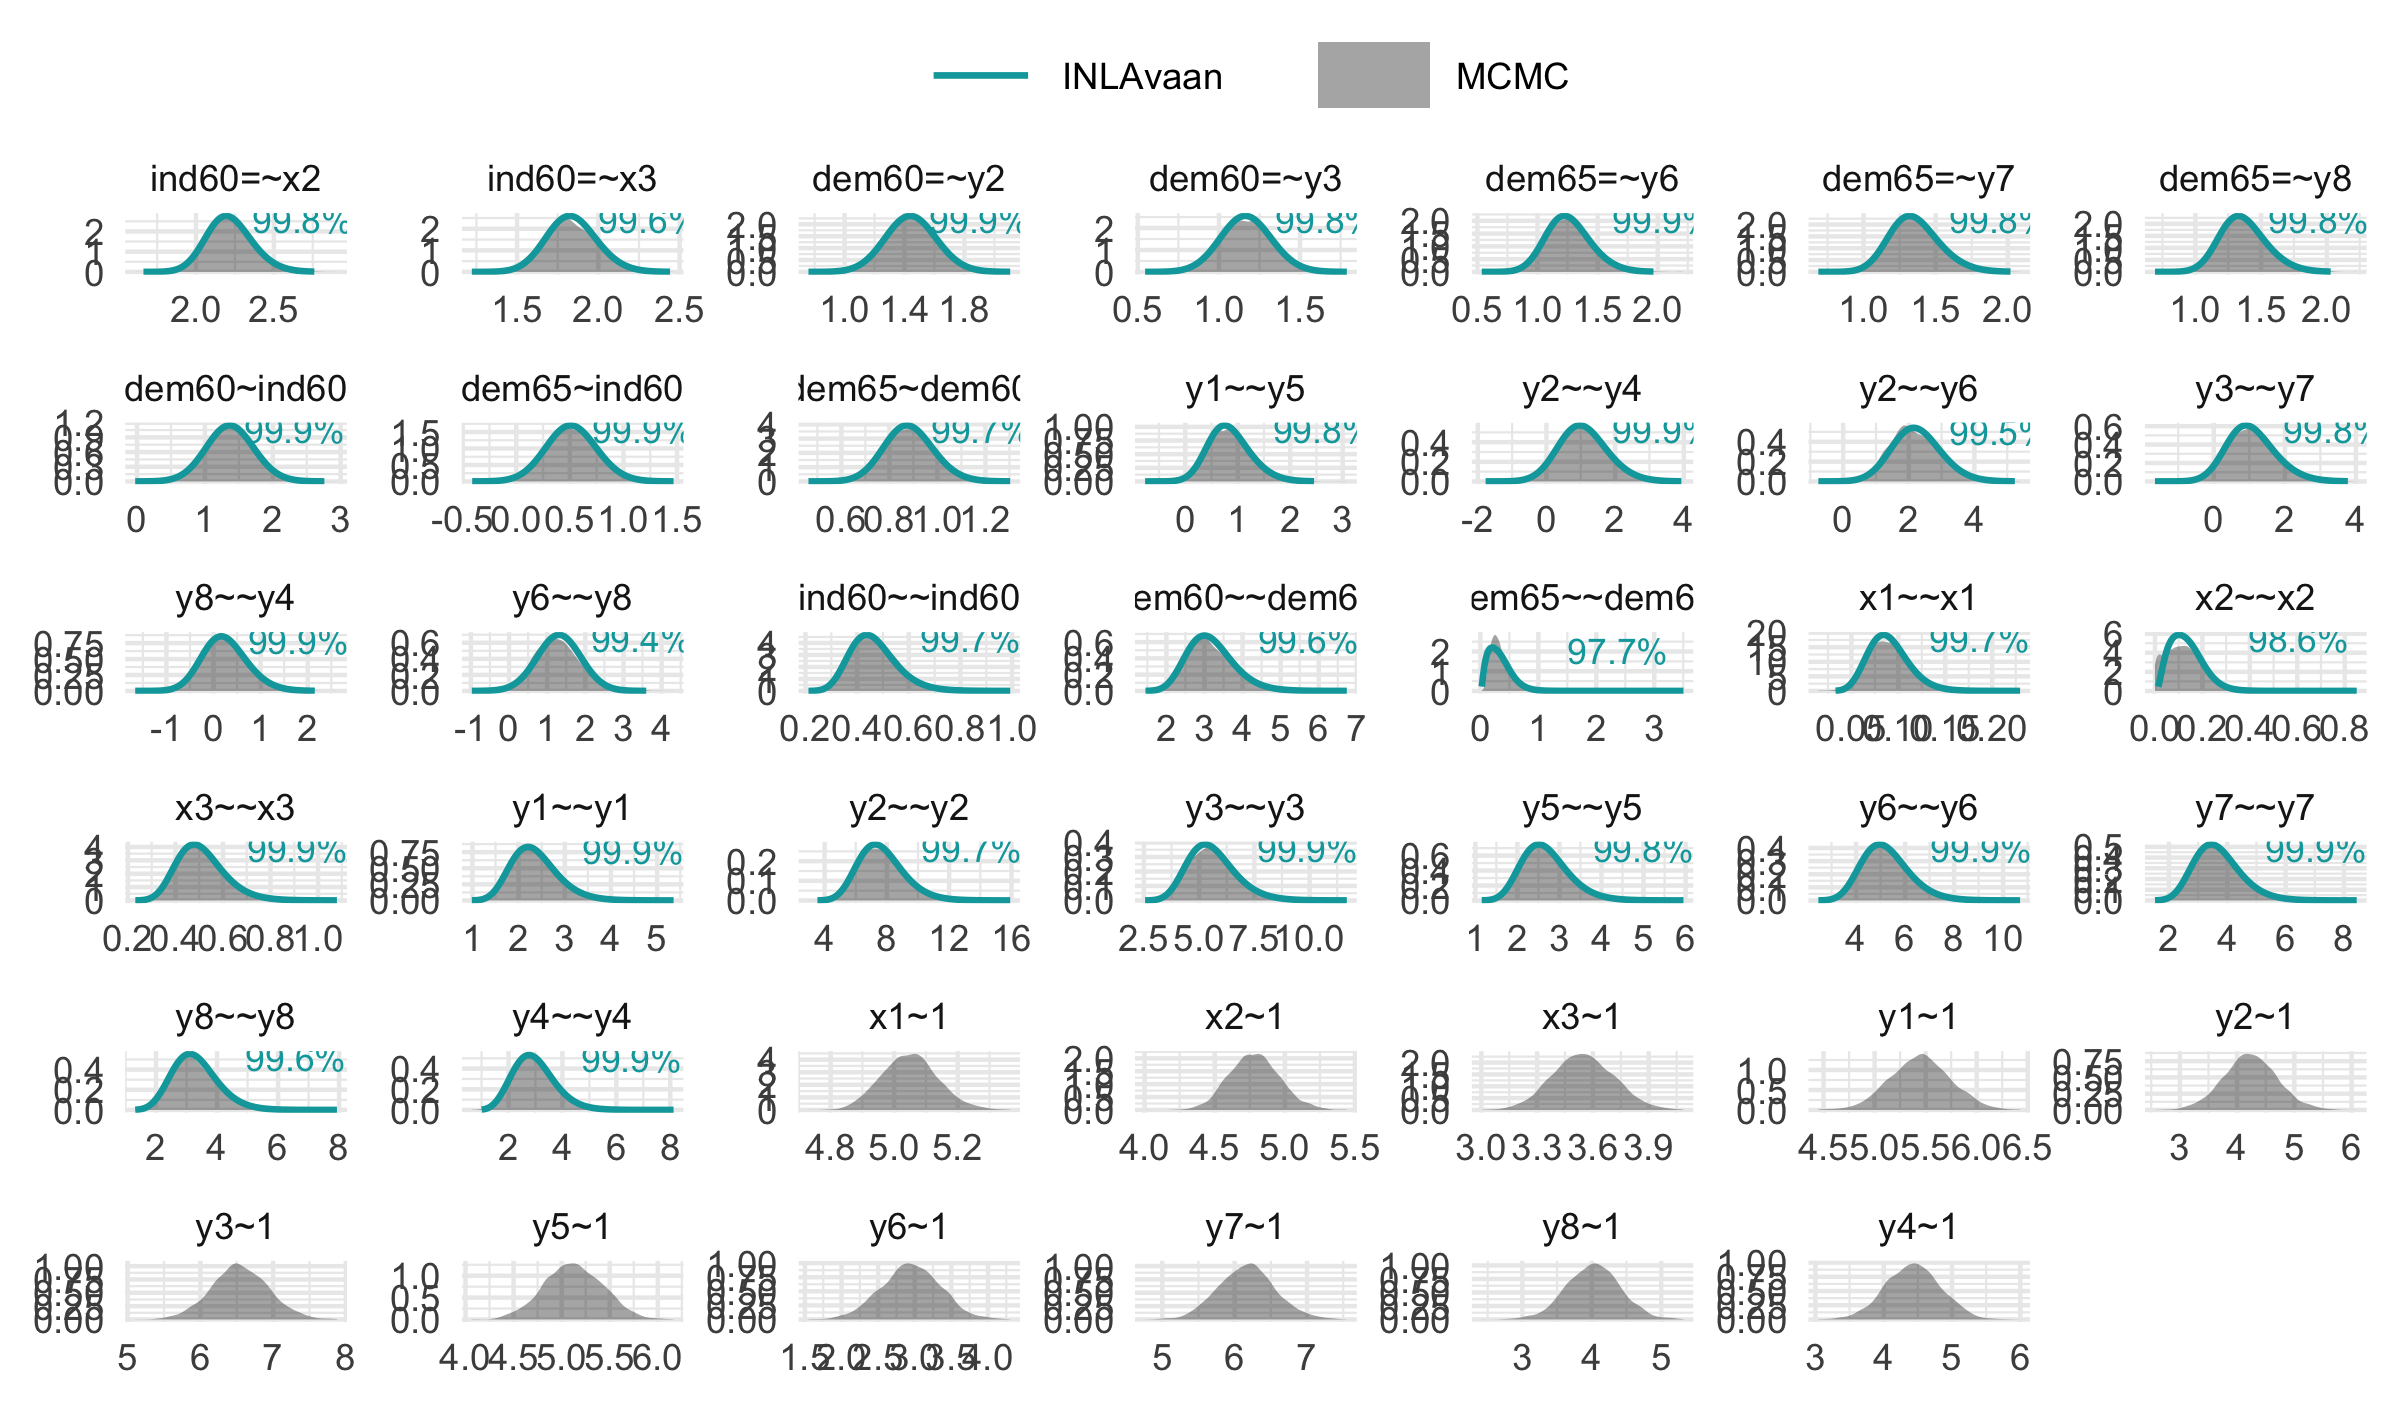
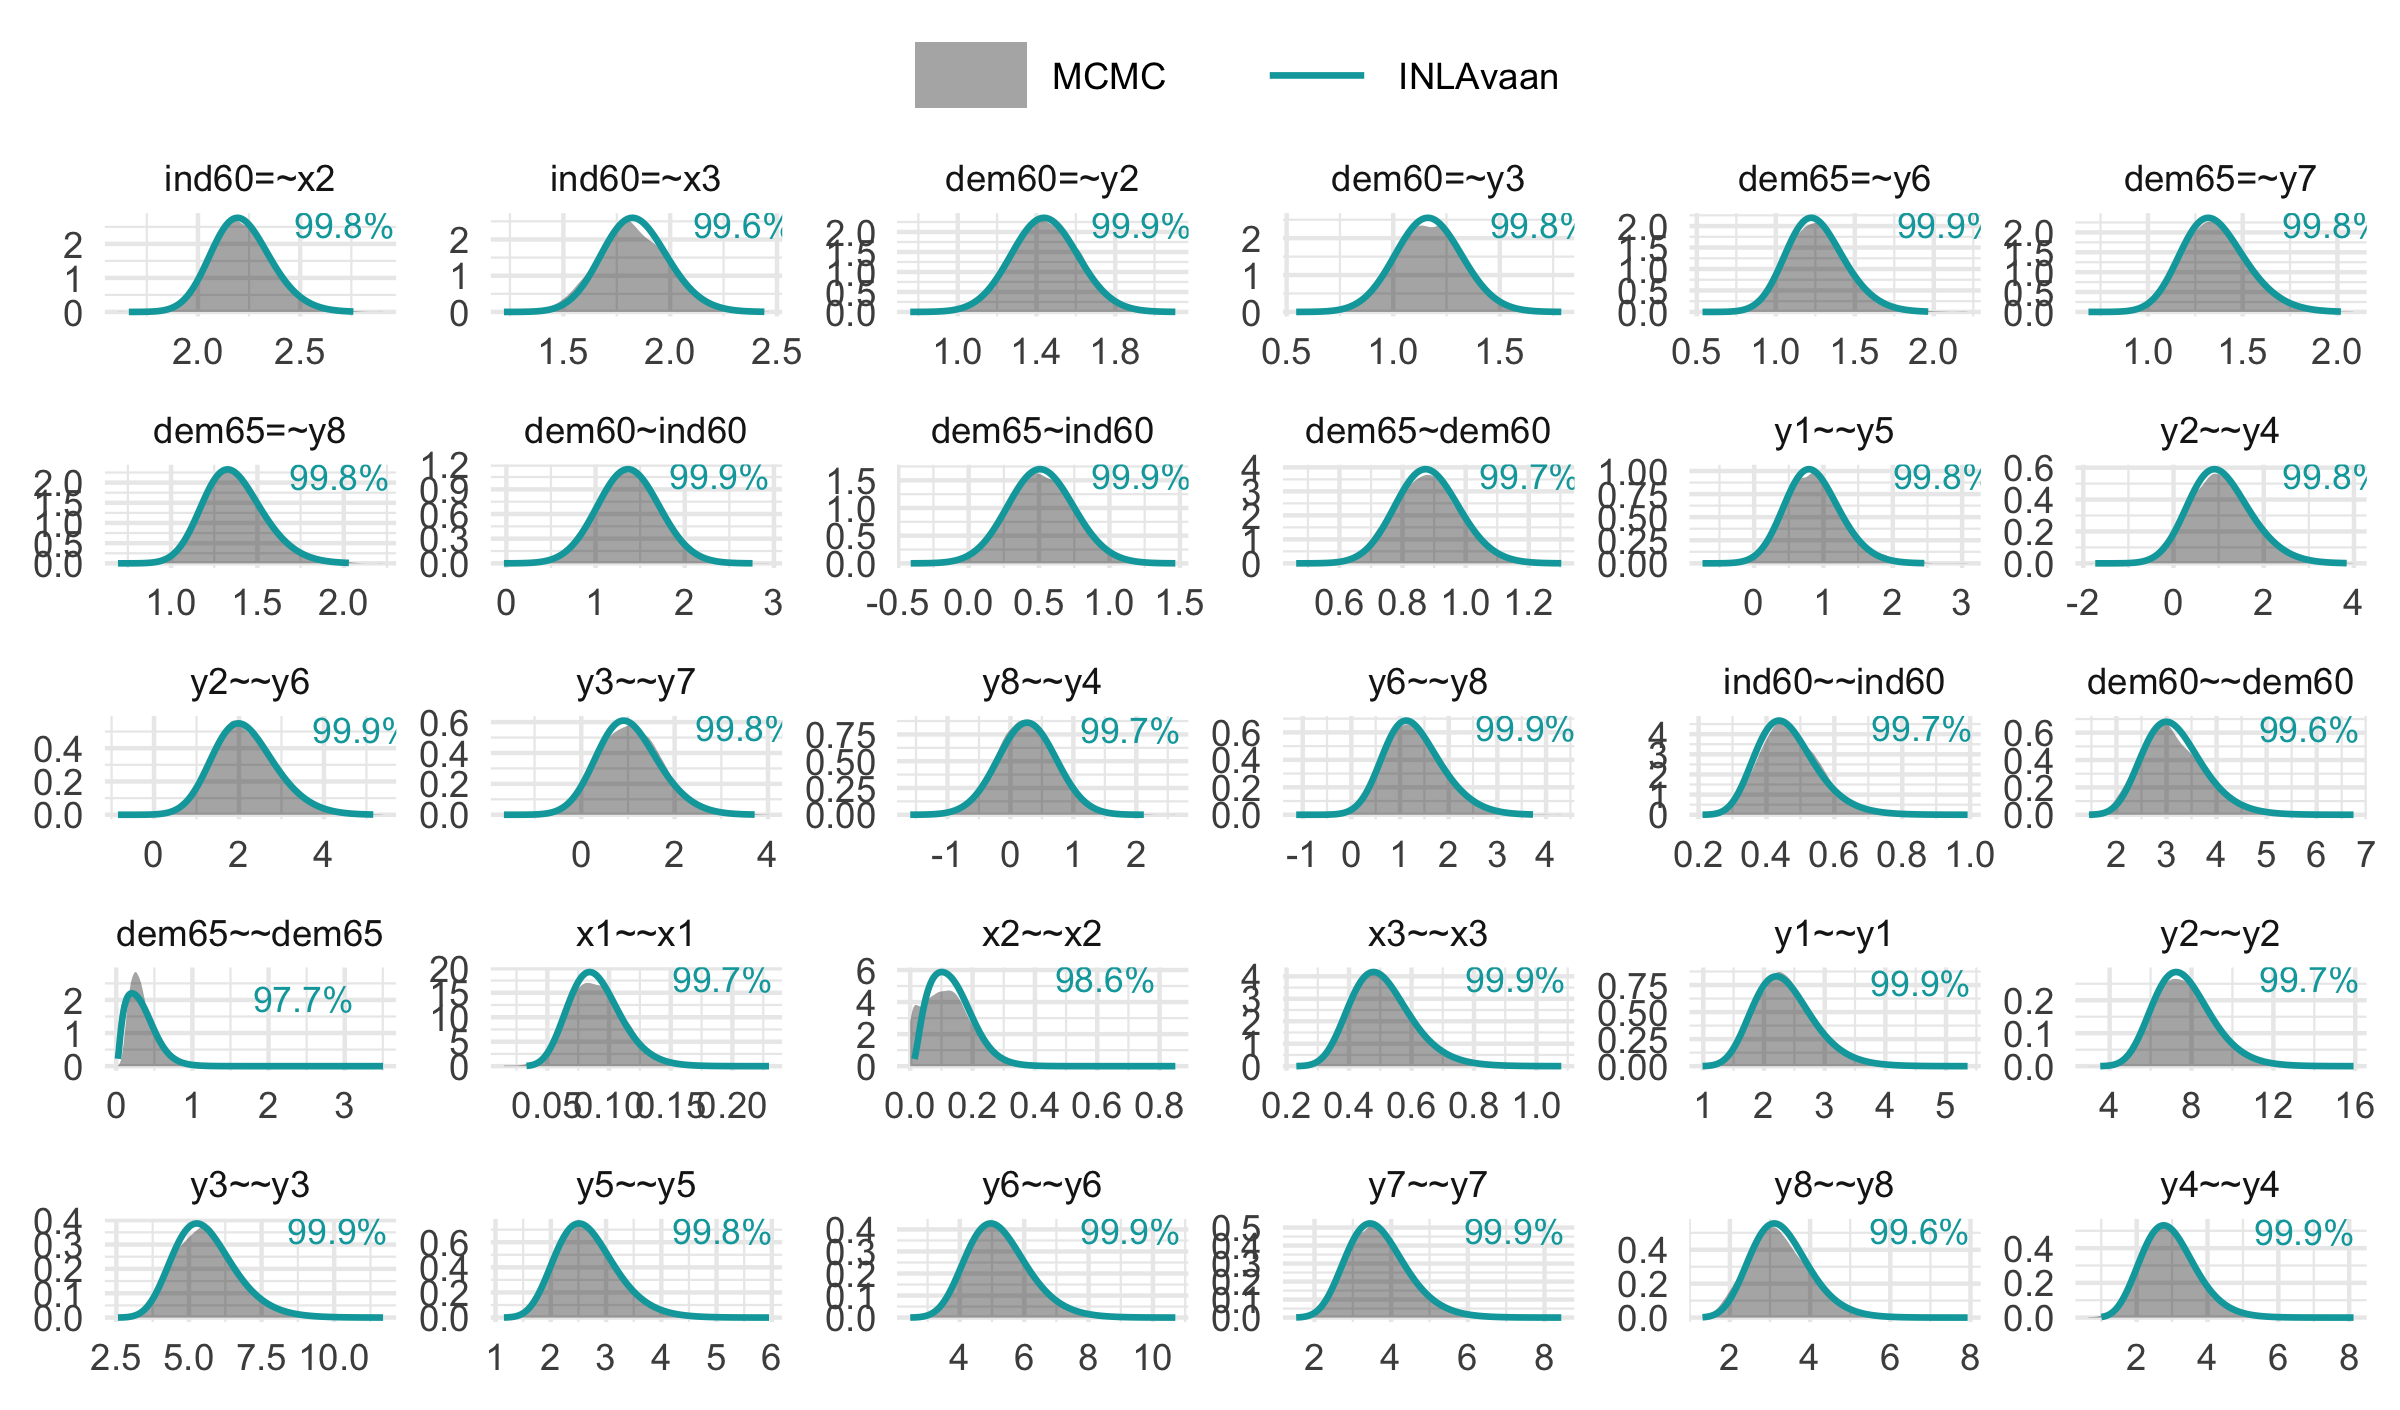
Drop blavaan-only intercepts from compare_mcmc plots, update README

Changed region(s): [[0.0, 0.0312, 1.0, 0.9674], [0.5312, 0.0312, 0.6562, 0.0936]]

diff --git a/README.md b/README.md
@@ -79,13 +79,14 @@ fit <- asem(model = mod_poldem, data = PoliticalDemocracy)
 #> ✔ VB correction; mean |δ| = 0.157σ. [101ms]
 #> 
 #> ⠙ Fitting 0/30 skew-normal marginals.
-#> ✔ Fit 30/30 skew-normal marginals. [841ms]
+#> ✔ Fit 30/30 skew-normal marginals. [827ms]
 #> 
 #> ℹ Adjusting copula correlations (NORTA).
-#> ✔ Adjust copula correlations (NORTA). [106ms]
+#> ✔ Adjust copula correlations (NORTA). [108ms]
 #> 
 #> ⠙ Posterior sampling and summarising.
-#> ✔ Summarise 1000 posterior draws. [494ms]
+#> ⠹ Computing WAIC.
+#> ✔ Summarise 1000 posterior draws. [503ms]
 #> 
 #> ℹ Fit measures: PPP, DIC, LOO, WAIC.
 
@@ -101,12 +102,12 @@ summary(fit)
 #> Model Test (User Model):
 #> 
 #>    Marginal log-likelihood                   -1659.573 
-#>    PPP (Chi-square)                              0.496 
+#>    PPP (Chi-square)                              0.467 
 #> 
 #> Information Criteria:
 #> 
-#>    Deviance (DIC)                             3174.270 
-#>    Effective parameters (pD)                    29.163 
+#>    Deviance (DIC)                             3174.405 
+#>    Effective parameters (pD)                    29.230 
 #> 
 #> Parameter Estimates:
 #> 
@@ -142,16 +143,16 @@ summary(fit)
 #> Covariances:
 #>                    Estimate       SD     2.5%    97.5%     NMAD    Prior       
 #>  .y1 ~~                                                                        
-#>    .y5                0.845    0.403    0.137    1.716    0.005       beta(1,1)
+#>    .y5                0.855    0.400    0.127    1.697    0.005       beta(1,1)
 #>  .y2 ~~                                                                        
-#>    .y4                1.078    0.713   -0.225    2.574    0.004       beta(1,1)
-#>    .y6                2.238    0.749    0.850    3.790    0.011       beta(1,1)
+#>    .y4                1.052    0.697   -0.187    2.547    0.004       beta(1,1)
+#>    .y6                2.156    0.751    0.829    3.776    0.011       beta(1,1)
 #>  .y3 ~~                                                                        
-#>    .y7                1.060    0.678   -0.138    2.524    0.005       beta(1,1)
+#>    .y7                1.029    0.671   -0.181    2.455    0.005       beta(1,1)
 #>  .y8 ~~                                                                        
-#>    .y4                0.244    0.477   -0.621    1.251    0.003       beta(1,1)
+#>    .y4                0.264    0.464   -0.645    1.173    0.003       beta(1,1)
 #>  .y6 ~~                                                                        
-#>    .y8                1.311    0.571    0.191    2.431    0.005       beta(1,1)
+#>    .y8                1.299    0.608    0.253    2.634    0.005       beta(1,1)
 #> 
 #> Variances:
 #>                    Estimate       SD     2.5%    97.5%     NMAD    Prior       